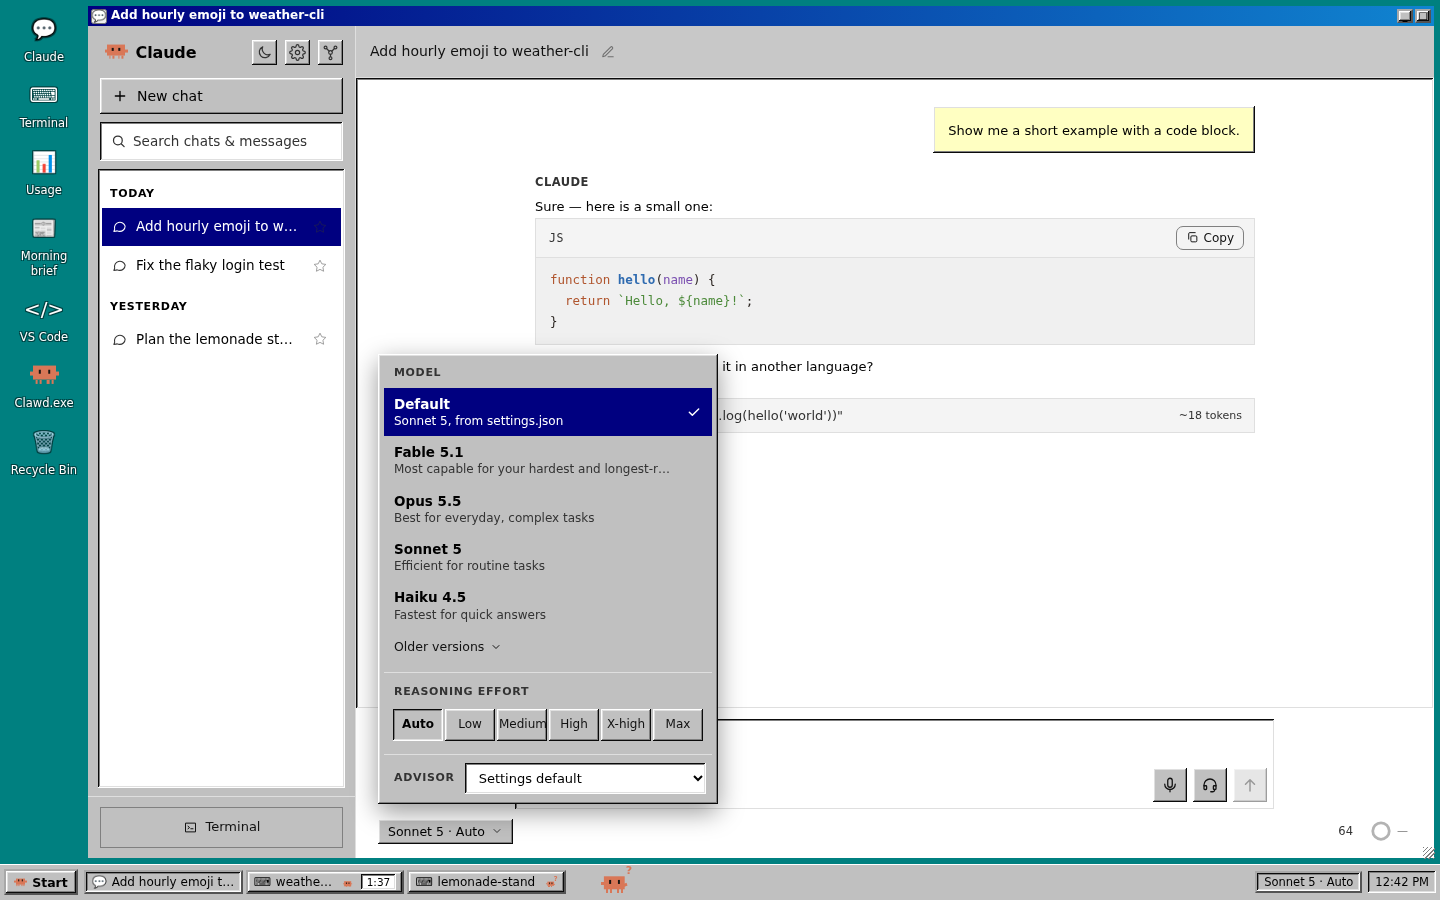
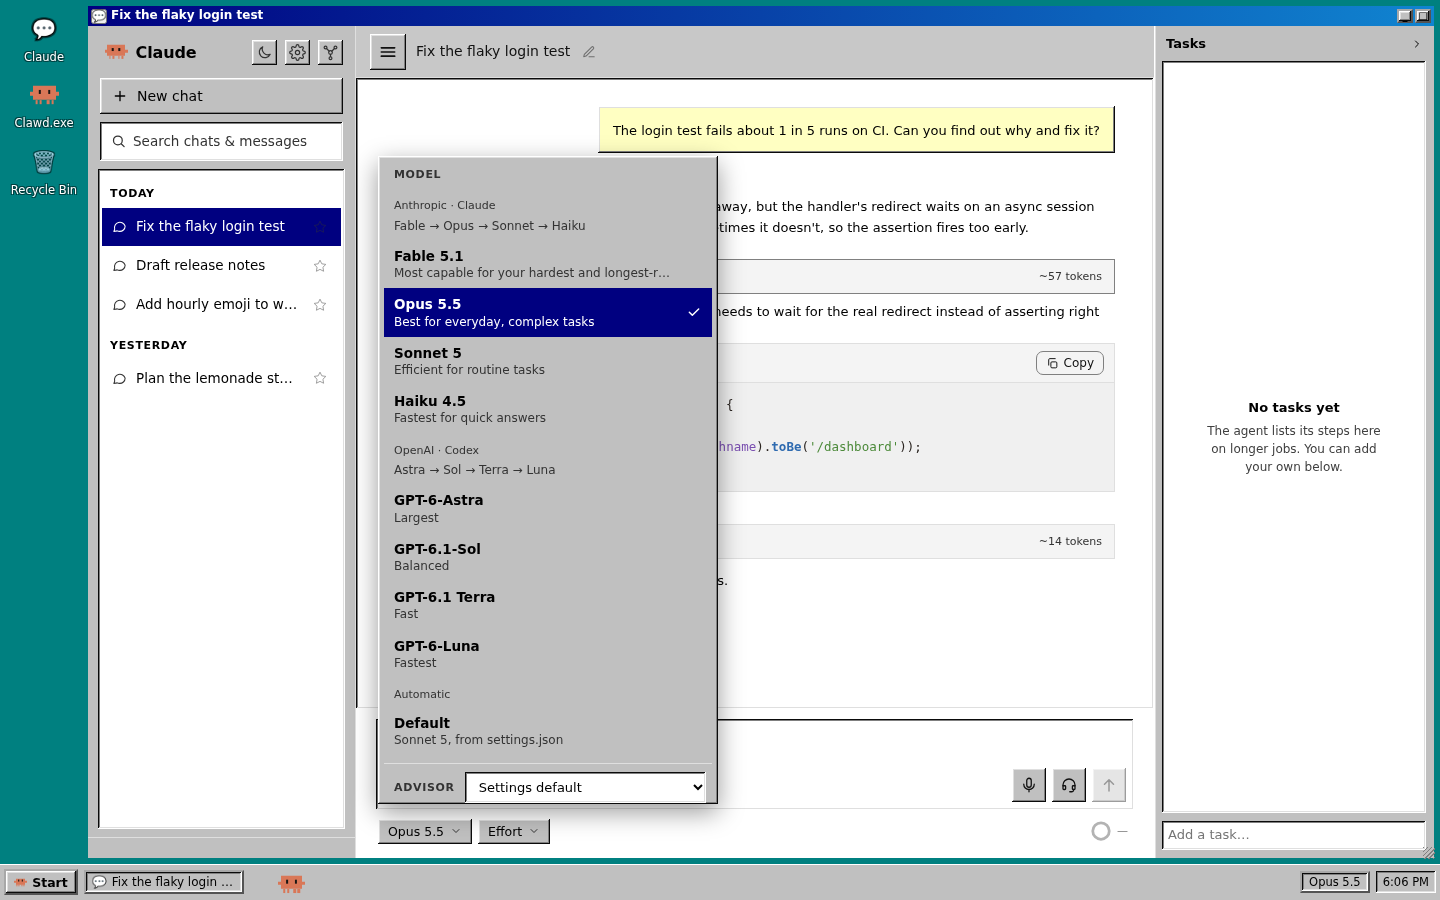
README: Claude and Codex screenshots

diff --git a/README.md b/README.md
@@ -23,6 +23,18 @@ A companion for running [Claude Code](https://claude.com/claude-code) in the bro
 It is config-driven: a single-person install is a few lines of JSON. You can also track extra
 "users" (separate agents, bots, or sandboxed guests) so their usage shows as its own row.
 
+## Claude and Codex
+
+The chat app (`/app`, described below) runs Claude Code and OpenAI Codex in the same interface. The model picker lists both catalogs. Picking a model from the other provider starts a new chat with the conversation so far copied in, and the original chat stays as it was. Both providers get a `shared-work` MCP server, so a Claude chat can hand part of a job to a Codex chat (or the reverse) and read back its result. See [`docs/codex.md`](docs/codex.md) for setup and current limits.
+
+![A Claude conversation debugging a flaky login test, with a grouped tool-call card and a code block](docs/screenshots/claude-chat.png)
+
+![A Codex conversation drafting release notes from recently merged pull requests](docs/screenshots/codex-chat.png)
+
+![The model picker open, listing Claude models and Codex models in separate sections](docs/screenshots/model-picker.png)
+
+These three screenshots use invented demo data, not real conversations.
+
 ## The desktop
 
 On a wide screen the site opens as a Windows 95 style desktop. The chat app, every terminal tab,
